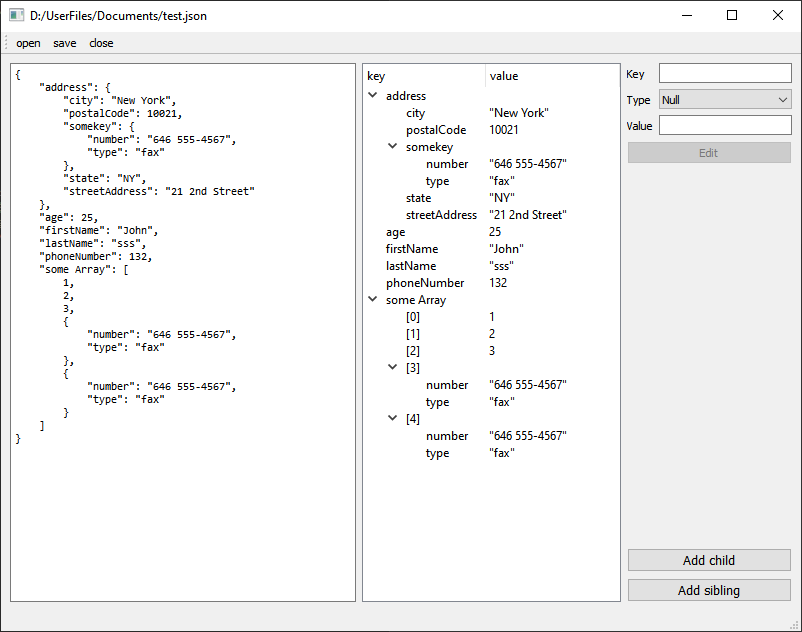
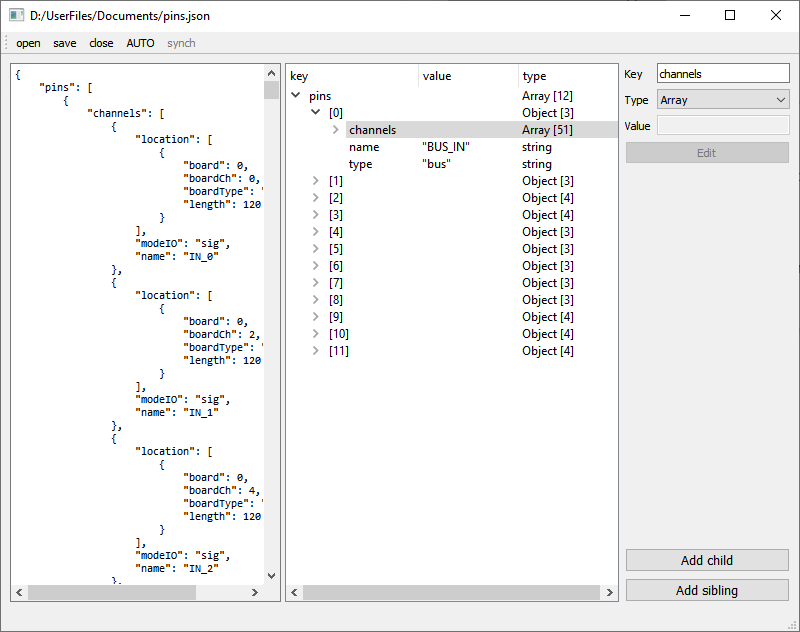
Add actions Auto & Synch

diff --git a/jsoneditor.cpp b/jsoneditor.cpp
@@ -19,23 +19,21 @@ const QMap<QJsonValue::Type, QString> JsonEditor::TYPES_STR {
 JsonEditor::JsonEditor(QWidget *parent) : JsonEditor(new QJsonModel(), parent) { }
 
 JsonEditor::JsonEditor(QJsonModel *model, QWidget *parent)
-    : QMainWindow(parent), ui(new Ui::JsonEditor), _model(nullptr), _hash() {
+    : QMainWindow(parent), ui(new Ui::JsonEditor), _model(nullptr), _hashModel() {
     ui->setupUi(this);
     setModel(model);
     ui->treeView->setModel(model);
     ui->teScript->setPlainText(_model->toByteArray(true));
-
     connect(ui->teScript, &QPlainTextEdit::textChanged, this, [this] {
-        QJsonParseError parse_error;
-        auto jdoc = QJsonDocument::fromJson(ui->teScript->toPlainText().toUtf8(), &parse_error);
-        if (parse_error.error) {
-            ui->statusbar->showMessage(parse_error.errorString());
-            return;
+        if (ui->actAuto->isChecked()) {
+            if (_timerUpdateTable) {
+                killTimer(_timerUpdateTable);
+            }
+            _timerUpdateTable = startTimer(TIME_UPDATE_TABLE);
         }
-        ui->statusbar->showMessage("");
-        if (jdoc != _model->toJsonDoc()) {
-            _model->load(jdoc);
-        }
+        qDebug() << hashText() << hashModel()
+                 << (hashText() == hashModel());
+        ui->actSynch->setEnabled(hashText() != hashModel());
     });
     connect(ui->treeView->selectionModel(), &QItemSelectionModel::selectionChanged,
             this, &JsonEditor::selectionChanged);
@@ -72,7 +70,7 @@ void JsonEditor::setModel(QJsonModel *model) {
     connect(_model, &QJsonModel::modelReset, this, &JsonEditor::updateJsonScript);
     connect(_model, &QAbstractItemModel::dataChanged, this, &JsonEditor::selectionChanged);
     connect(_model, &QAbstractItemModel::modelReset, this, &JsonEditor::selectionChanged);
-    _hash = hashModel();
+    _hashModel = hashModel();
     fileChanged();
 }
 
@@ -136,11 +134,15 @@ void JsonEditor::typeChanged() {
 }
 
 QByteArray JsonEditor::hashModel() const {
-    return QCryptographicHash::hash(_model->toByteArray(false), QCryptographicHash::Algorithm::Md5);
+    return QCryptographicHash::hash(_model->toByteArray(true), QCryptographicHash::Algorithm::Md5);
+}
+
+QByteArray JsonEditor::hashText() const {
+    return QCryptographicHash::hash(ui->teScript->toPlainText().toUtf8(), QCryptographicHash::Algorithm::Md5);
 }
 
 bool JsonEditor::fileChanged() {
-    if (hashModel() == _hash) {
+    if (hashModel() == _hashModel) {
         setWindowTitle(_fileName.isEmpty() ? objectName() : _fileName);
         return false;
     } else {
@@ -194,6 +196,14 @@ void JsonEditor::selectionChanged() {
     ui->btnEdit->setEnabled(false);
 }
 
+void JsonEditor::timerEvent(QTimerEvent *event) {
+    if (_timerUpdateTable == event->timerId()) {
+        killTimer(_timerUpdateTable);
+        _timerUpdateTable = 0;
+        on_actSynch_triggered();
+    }
+}
+
 void JsonEditor::on_btnEdit_clicked() {
     auto currIndex = ui->treeView->selectionModel()->currentIndex();
     auto item = static_cast<QJsonTreeItem*>(currIndex.internalPointer());
@@ -242,7 +252,7 @@ void JsonEditor::on_actOpen_triggered() {
         return;
     }
     _model->load(_fileName);
-    _hash = hashModel();
+    _hashModel = hashModel();
     fileChanged();
 }
 
@@ -267,7 +277,7 @@ void JsonEditor::on_actSave_triggered() {
         return;
     }
     f.write(_model->toByteArray(true));
-    _hash = hashModel();
+    _hashModel = hashModel();
     fileChanged();
 }
 
@@ -275,7 +285,7 @@ void JsonEditor::on_actClose_triggered() {
     auto clearFn = [this] {
         _fileName = nullptr;
         _model->clear();
-        _hash = hashModel();
+        _hashModel = hashModel();
         fileChanged();
     };
     if (!fileChanged()) {
@@ -298,5 +308,18 @@ void JsonEditor::on_actClose_triggered() {
         break;
     default:
         qDebug() << __PRETTY_FUNCTION__ << "bad ret"<< ret;
+    }
+}
+
+void JsonEditor::on_actSynch_triggered() {
+    QJsonParseError parse_error;
+    auto jdoc = QJsonDocument::fromJson(ui->teScript->toPlainText().toUtf8(), &parse_error);
+    if (parse_error.error) {
+        ui->statusbar->showMessage(parse_error.errorString());
+        return;
+    }
+    ui->statusbar->showMessage("");
+    if (jdoc != _model->toJsonDoc()) {
+        _model->load(jdoc);
     }
 }

diff --git a/jsoneditor.h b/jsoneditor.h
@@ -12,6 +12,7 @@ class JsonEditor : public QMainWindow
     Q_OBJECT
 
 public:
+    static const int TIME_UPDATE_TABLE = 2000;  ///< 2 sec
     static const QMap<QJsonValue::Type, QString> TYPES_STR;
     explicit JsonEditor(QWidget *parent = nullptr);
     explicit JsonEditor(QJsonModel *model, QWidget *parent = nullptr);
@@ -22,6 +23,7 @@ private slots:
     void checkEnabledEdit();
     void typeChanged();
     QByteArray hashModel() const;
+    QByteArray hashText() const;
     bool fileChanged();
     void updateJsonScript();
 
@@ -33,10 +35,15 @@ private slots:
 
     void on_actClose_triggered();
 
+    void on_actSynch_triggered();
+
 private:
     void selectionChanged();
+    void timerEvent(QTimerEvent *event) override;
+
     Ui::JsonEditor *ui;
     QJsonModel *_model = nullptr;
     QString _fileName;
-    QByteArray _hash;
+    QByteArray _hashModel;
+    int _timerUpdateTable = 0;
 };
